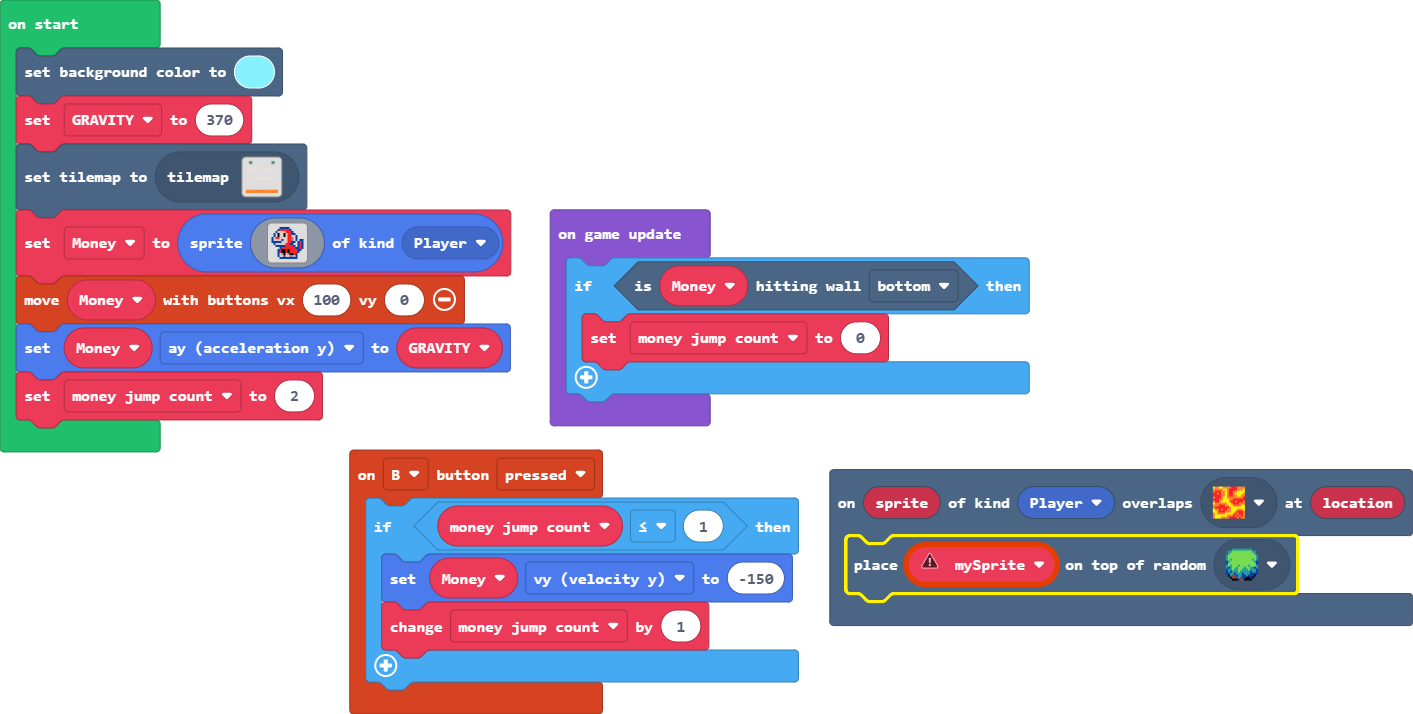
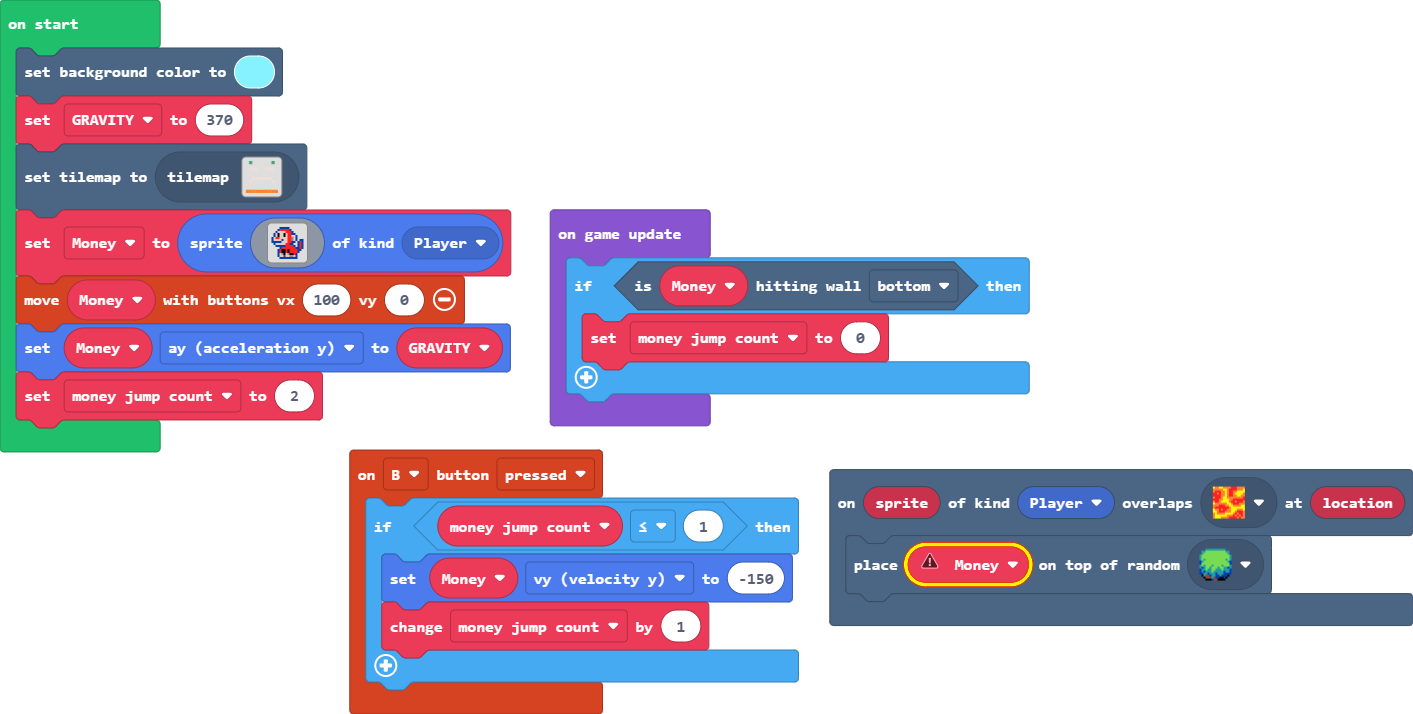
v1

Changed region(s): [[0.5916, 0.7395, 0.9342, 0.8319]]

diff --git a/main.ts b/main.ts
@@ -1,6 +1,5 @@
 scene.onOverlapTile(SpriteKind.Player, assets.tile`myTile0`, function (sprite, location) {
-    let mySprite: Sprite = null
-    tiles.placeOnRandomTile(mySprite, sprites.builtin.forestTiles0)
+    tiles.placeOnRandomTile(Money, sprites.builtin.forestTiles0)
 })
 controller.B.onEvent(ControllerButtonEvent.Pressed, function () {
     if (money_jump_count <= 1) {
